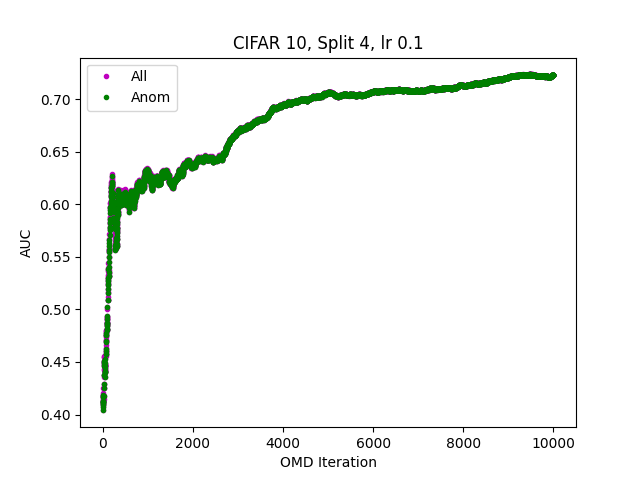
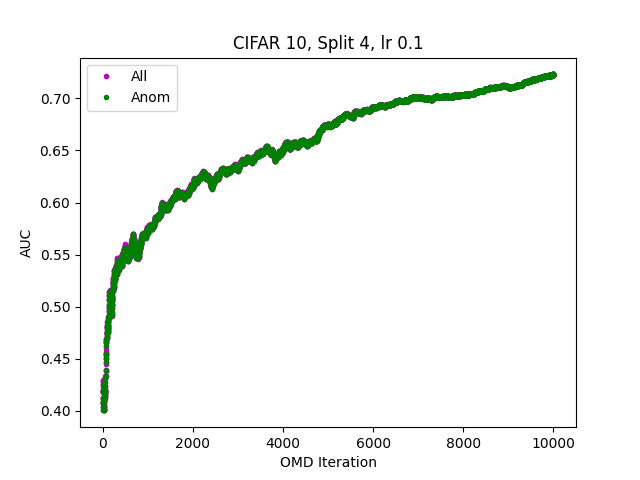
Added latent repr. round robin experiments

diff --git a/oracle_omd.py b/oracle_omd.py
@@ -213,7 +213,9 @@ def omd(train_latent_data, latent_data, anom_classes, split, strategy="max", tes
     #       and compute cluster label vector.
     #
     # Build schedule (either round robin, or random class)
-    kmeans = KMeans(n_clusters=num_clust, random_state=0).fit(data)
+    latent_np = latent_data.drop(columns=['label'])
+    latent_np = latent_np.to_numpy()
+    kmeans = KMeans(n_clusters=num_clust, random_state=0).fit(latent_np)
     # this might need to be copied
     clust_labels = kmeans.labels_.copy() 
 
